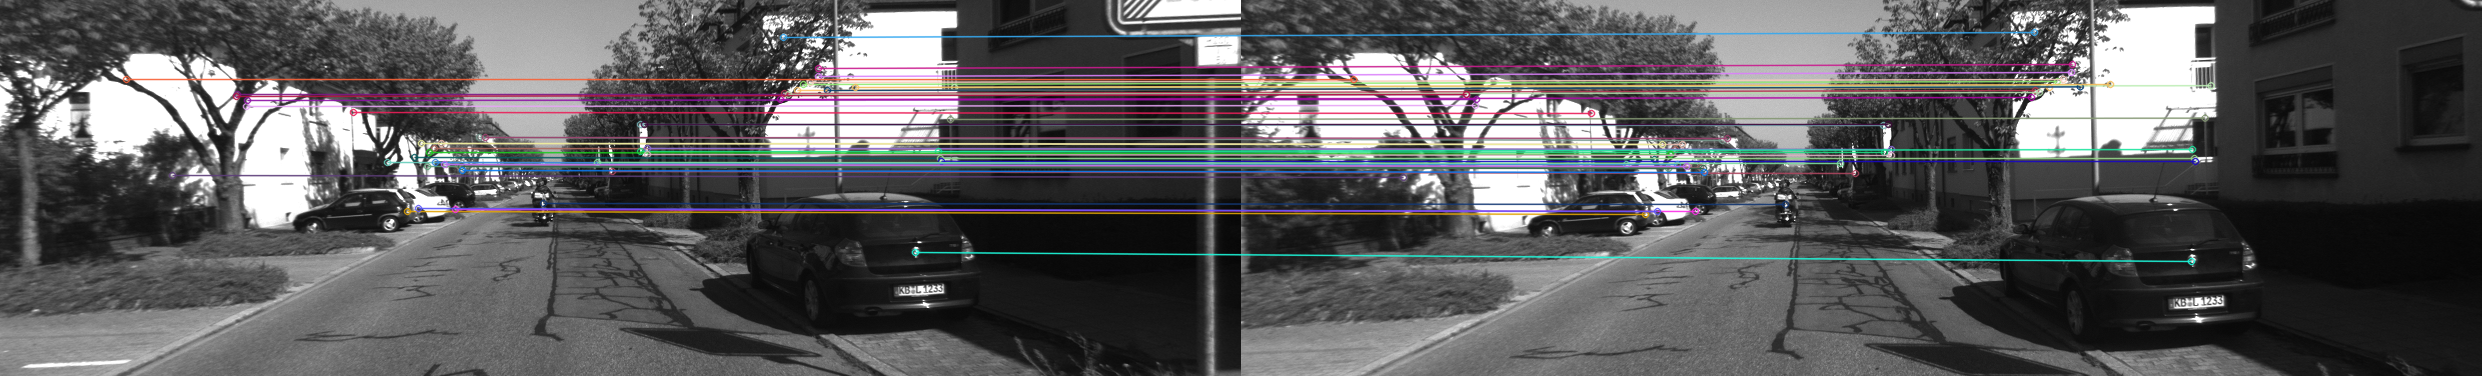
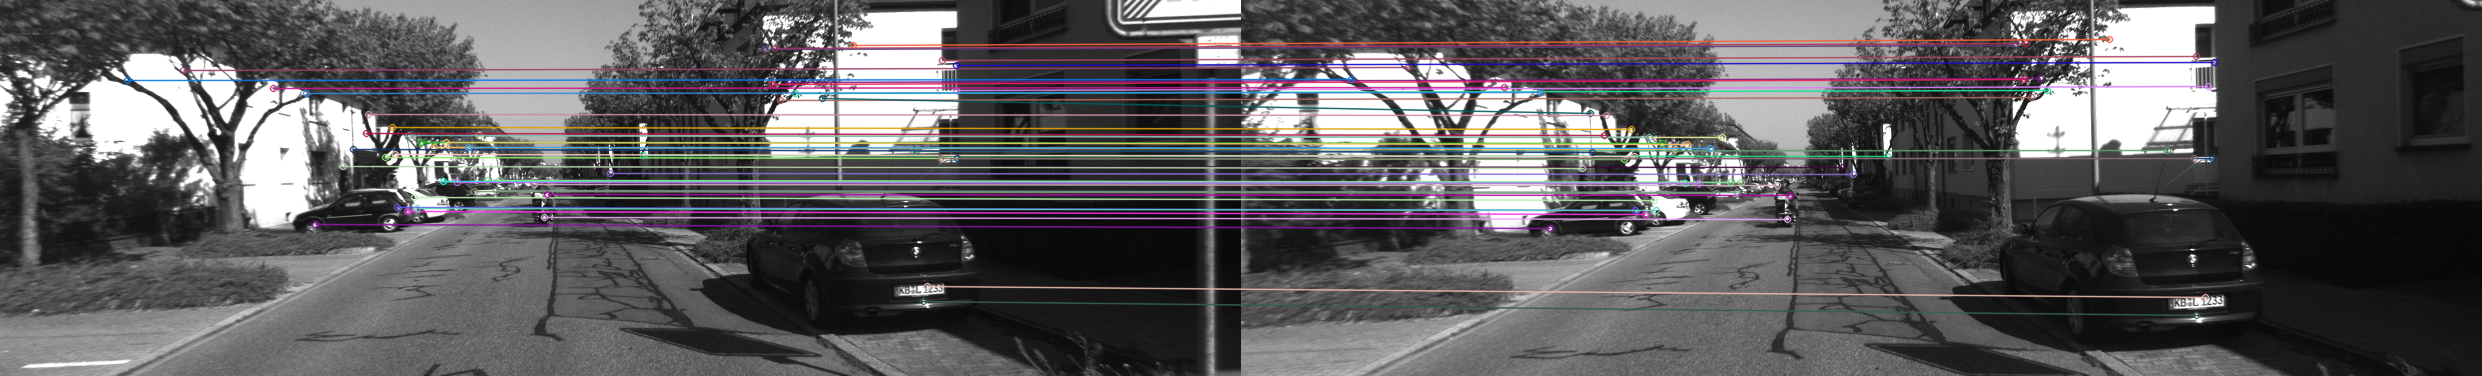
replace static images with animated GIFs for better visualization

diff --git a/main.py b/main.py
@@ -21,7 +21,7 @@ def main():
     image_dir = "data/dataset/sequences/00/image_0/"
     save_plot_path = "results/trajectory_00.png"
     save_matching_path = "results/matching_demo.png" # For README visualization
-
+    save_matching_path = "results/matching_demo.gif"
     # ==============================
     # 1. Initialize Modules
     # ==============================
@@ -48,6 +48,10 @@ def main():
     num_frames = min(len(images), plotter.num_frames)
     print(f"✅ Found {num_frames} images and corresponding Ground Truth. Starting processing...")
 
+    matching_frames = []
+    capture_start_frame = 100
+    max_to_capture = 60
+
     # ==============================
     # 2. VO Loop Processing
     # ==============================
@@ -63,6 +67,8 @@ def main():
 
         # Pose estimation (Relative rotation R and translation t with unknown scale)
         R_rel, t_rel = pose_estimator.estimate_pose(kp1, kp2, matches)
+        if R_rel is None:
+            continue  # skip degenerate frame
         
         # ==========================================
         # 3. Core: Scale Correction (using Ground Truth)
@@ -99,16 +105,20 @@ def main():
         # Print progress
         if i % 100 == 0:
             print(f"Processing frame {i}/{num_frames}...")
-            # Save the first matching result for documentation
-            if i == 0:
-                matching_img = matcher.draw_matches(img1, kp1, img2, kp2, matches)
-                cv2.imwrite(save_matching_path, matching_img)
+            
+        if i >= capture_start_frame and len(matching_frames) < max_to_capture:
+            matching_img = matcher.draw_matches(img1, kp1, img2, kp2, matches)
+            matching_frames.append(matching_img)
 
     # ==============================
     # 5. Generate Results
     # ==============================
     plotter.save_trajectory_plot(save_plot_path)
     print("🏁 Processing finished. Please check the results/ directory for images.")
+    plotter.save_trajectory_gif("results/trajectory_00.gif")
+
+    if matching_frames:
+        matcher.save_matching_gif(matching_frames, save_matching_path)
 
 if __name__ == "__main__":
     main()

diff --git a/modules/utils.py b/modules/utils.py
@@ -1,6 +1,6 @@
 import numpy as np
 import matplotlib.pyplot as plt
-
+from matplotlib.animation import FuncAnimation, PillowWriter
 
 class VOPlotter:
     def __init__(self, gt_path):
@@ -63,7 +63,26 @@ class VOPlotter:
         plt.savefig(save_path)
         plt.close()
         print(f"✅ Trajectory plot successfully saved to: {save_path}")
+    
+    def save_trajectory_gif(self, save_path):
+        fig, ax = plt.subplots(figsize=(10, 8))
+        ax.plot(self.gt_x, self.gt_z, color='blue', linewidth=1, label='Ground Truth')
+        est_line, = ax.plot([], [], color='red', linestyle='--', linewidth=2, label='Estimated VO')
+        ax.set_xlim(min(self.gt_x)-10, max(self.gt_x)+10)
+        ax.set_ylim(min(self.gt_z)-10, max(self.gt_z)+10)
+        ax.set_title('Visual Odometry on KITTI Sequence 00', fontsize=15)
+        ax.set_xlabel('X (meters)'); ax.set_ylabel('Z (meters)')
+        ax.legend(); ax.grid(True)
 
+        def update(frame):
+            est_line.set_data(self.est_x[:frame], self.est_z[:frame])
+            return est_line,
+        step = 10
+        frames = range(0, len(self.est_x),step)
+        ani = FuncAnimation(fig, update, frames=frames, interval=20, blit=True)
+        ani.save(save_path, writer=PillowWriter(fps=30))
+        plt.close()
+        print(f"✅ Trajectory GIF saved to: {save_path}")
 
 def parse_gt_pose(gt_frame):
     """

diff --git a/modules/feature_extraction.py b/modules/feature_extraction.py
@@ -3,19 +3,16 @@ import numpy as np
 
 class FeatureExtractor:
     def __init__(self):
-        # Initialize ORB detector
-        # nfeatures: 2000-3000 points are typically sufficient for Visual Odometry (VO)
-        self.orb = cv2.ORB_create(nfeatures=3000)
+        # GFTT finds corners robustly; ORB describes them
+        self.detector = cv2.GFTTDetector_create(
+            maxCorners=2000, qualityLevel=0.01,
+            minDistance=10, blockSize=3)
+        self.descriptor = cv2.ORB_create(nfeatures=2000)
 
     def extract_features(self, image):
-        """
-        Input: Grayscale image
-        Output: keypoints (coordinates), descriptors (feature vectors)
-        """
-        # Detect keypoints and compute descriptors
-        keypoints, descriptors = self.orb.detectAndCompute(image, None)
-        
-        return keypoints, descriptors
+        kp = self.detector.detect(image, None)
+        kp, des = self.descriptor.compute(image, kp)
+        return kp, des
 
     def draw_features(self, image, keypoints):
         """

diff --git a/modules/matching.py b/modules/matching.py
@@ -23,6 +23,22 @@ class FeatureMatcher:
         return good_matches
 
     def draw_matches(self, img1, kp1, img2, kp2, matches):
-        match_img = cv2.drawMatches(img1, kp1, img2, kp2, matches[:50], None, 
+        match_img = cv2.drawMatches(img1, kp1, img2, kp2, matches, None, 
                                     flags=cv2.DrawMatchesFlags_NOT_DRAW_SINGLE_POINTS)
         return match_img
+
+    def save_matching_gif(self, matching_imgs, save_path):
+        import imageio
+        import cv2
+        
+        if not matching_imgs:
+            print("❌ No matching images to save.")
+            return
+
+        print(f"🎬 Creating clean GIF with imageio...")
+        
+        rgb_frames = [cv2.cvtColor(img, cv2.COLOR_BGR2RGB) for img in matching_imgs]
+        
+        imageio.mimsave(save_path, rgb_frames, duration=0.05, loop=0)
+        
+        print(f"✅ Clean Matching GIF saved to: {save_path}")

diff --git a/README.md b/README.md
@@ -57,24 +57,22 @@ pip install -r requirements.txt
 python main.py
 ```
 
-Results are saved to the `results/` directory.
-
 ## 📊 Results
 
 ### 1. Feature Matching (Frontend)
 
 <p align="center">
-  <img src="results/matching_demo.png" width="80%" alt="Feature Matching">
-  <br>
-  <em>Figure 1: GFTT+ORB feature matching between consecutive frames (top 50 shown).</em>
+   <img src="results/matching_demo.gif" width="85%" alt="Feature Matching Animation" />
+     <br>
+  <em>Figure 1: Animated GFTT+ORB feature matching demonstration between consecutive frames.</em>
 </p>
 
 ### 2. Trajectory Comparison (Estimated vs. Ground Truth)
 
 <p align="center">
-  <img src="results/trajectory_00.png" width="65%" alt="Trajectory Result">
+  <img src="results/trajectory_00.gif" width="70%" />
   <br>
-  <em>Figure 2: Estimated trajectory (red dashed) vs. ground truth (blue) on KITTI Sequence 00. Strong alignment is maintained throughout the majority of the ~3.7 km route.</em>
+  <em>Figure 2: Real-time trajectory propagation (red dashed) vs. ground truth (blue) on KITTI Sequence 00. Strong alignment is maintained throughout the majority of the ~3.7 km route.</em>
 </p>
 
 ## 📈 Error Analysis & Drift
